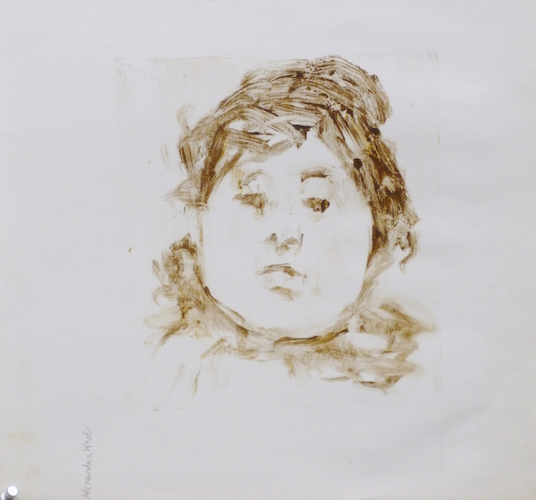
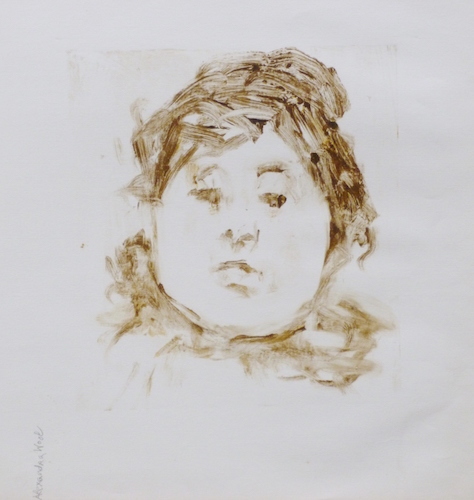
added cropped versions sent by Alexandra

diff --git a/app.js b/app.js
@@ -50,8 +50,8 @@ app.controller('PanelCtrl', function(){
 var categories = [
 	// {category: "paintings", paintings: []},
 	{category: "mixed media", paintings: [
-		{name: "flower and memory", img: "public/Mixed-Media/FLOWER AND MEMORY 15x20in.jpg", size: "20x15in"},
-		{name: "generative green", img: "public/Mixed-Media/Generative_Green_on_panel_15x16in.jpg", size: "20x15in"},
+		{name: "flower and memory", img: "public/Flowers/05 Flower and Memory   mixed media on panel   20x15in.jpeg", size: "20x15in"},
+		{name: "generative green", img: "public/Flowers/06 Generative Green (20'' x 15'', mixed media on panel - 2011) - Copy - Copy (2).jpg", info: "", size: "20x15in"},
 		{name: "light after rain", img: "public/Mixed-Media/light after rain  mixed media  panel  36x30in.jpg", size: "48x36in"}, // size corrected by Alexandra
 		{name: "postcard from lucca", img: "public/Mixed-Media/012Postcard from Lucca  mixed media  24x32in.JPG", size: "32x24in"},
 		{name: "red flowers in a somewhat grey vase", img: "public/Mixed-Media/red flowers in a somewhat grey vase              mixed media  panel  9.5x16.5.JPG", size: "9.5x16.5in"},
@@ -98,14 +98,14 @@ var categories = [
 		{name: "leisure time graces", img: "public/Monotype/05  leisure time graces oil monotype on rice  paper 19x24in.JPG", info: "oil on rice paper", size: "19x24in"},
 		{name: "almost dressed", img: "public/Monotype/06 almost dressed    monotype   5x9.25in.JPG", info: "", size: "5x9.25in"},
 		{name: "mika", img: "public/Monotype/07 mika   monotype   7.5x7in.jpg", info: "", size: "7.5x7in"},
-		{name: "post- shower", img: "public/Monotype/z01 post- shower   monotype  6.5x10in.JPG", info: "", size: "6.5x10in"},
+		{name: "post- shower", img: "public/Monotype/08  post- shower   monotype  6.5x10in.JPG", info: "", size: "6.5x10in"},
 		{name: "after the bath", img: "public/Monotype/09 after the bath   monotype    5.5x7in.JPG", info: "", size: "5.5x7in"},
 		{name: "woman dressing", img: "public/Monotype/z02woman dressing   monotype    8.75x6in.JPG", info: "", size: "8.75x6in"},
 		{name: "young woman thinking, back view", img: "public/Monotype/young woman thinking, back view.jpg", info: "", size: "14.5x13in"},
 		// {name: "young woman, considering", img: "public/Monotype/011 young woman, considering  monotype  14.5x13in.jpg", info: "", size: "14.5x13in"},
 		{name: "lovely lady, back 3", img: "public/Monotype/012  lovely lady back 3  monotype  14.5x19in.JPG", info: "", size: "14.5x19in"},
 		{name: "lovely lady, back 2", img: "public/Monotype/z04 lovely lady back2  monotype 14.5x19in.JPG", info: "", size: "14.5x19in"},
-		{name: "lovely lady, her back 1", img: "public/Monotype/014 lovely lady her back 1 monotype 14.75x19.JPG", info: "", size: "14.75x19"},
+		{name: "lovely lady, her back 1", img: "public/Monotype/z040  lovely lady her back 1 monotype 14.75x19.JPG", info: "", size: "14.75x19"},
 		{name: "flowery field view of small hill and phone poles, pawling", img: "public/Monotype/015 flowery field view of small hill and phone poles, Pawling    monotype   5.25x5.25in.JPG", info: "", size: "5.25x5.25in"},
 		{name: "fair day landscape", img: "public/Monotype/016 fair day landscape   monotype   10.25x4.75in.JPG", info: "", size: "10.25x4.75in"},
 		{name: "landscape west", img: "public/Monotype/017 landscape west   monotype 10x9in.JPG", info: "", size: "10x9in"},
@@ -233,15 +233,15 @@ var categories = [
 		{name: "anemones", img: "public/Flowers/ANEMONES 44x44in.JPG", size: "44x44in"},
 		{name: "anemones in a teapot", img: "public/Flowers/anemones in a teapot  18x36in.jpg", size: "18x36in"},
 		{name: "corsage", img: "public/Flowers/corsage   36x27.5in.JPG", size: "36x27.5in"},
-		{name: "daffodils 1", img: "public/Flowers/daffodils 1    8x10in.JPG", size: "10x8in"},
-		{name: "daffodils 4", img: "public/Flowers/daffodils 2   8x10in.JPG", size: "10x8in"},
+		{name: "daffodils 1", img: "public/Flowers/01Daffodils 1.JPG", size: "10x8in"},
+		{name: "daffodils 4", img: "public/Flowers/02Daffodils 2.JPG", size: "10x8in"},
 		// {name: "daffodils 3", img: "public/Flowers/daffodils 3    8x10in.JPG", size: "8x10in"},
 		// {name: "daffodils and vase", img: "public/Flowers/Daffodils and Vase   chalk pencil paint  9x12in.JPG", size: "9x12in"},
 		{name: "first blooming geraniums", img: "public/Flowers/first blooming geraniums   48x24in.jpg", size: "48x24in"},
 		{name: "florentine geraniums", img: "public/Flowers/florentine geraniums 48x24in.jpg", size: "48x24in"},
-		{name: "flower and memory", img: "public/Flowers/flower_and_memory_mixed_media_panel_20x15in.jpg", size: "20x15in"},
+		{name: "flower and memory", img: "public/Flowers/05 Flower and Memory   mixed media on panel   20x15in.jpeg", size: "20x15in"},
 		{name: "flowers, blue, pink, and violet", img: "public/Flowers/flowers,blue,pink, and violet   12x9in.JPG", size: "12x9in"},
-		{name: "generative green", img: "public/Mixed-Media/Generative_Green_on_panel_15x16in.jpg", info: "", size: "20x15in"},
+		{name: "generative green", img: "public/Flowers/06 Generative Green (20'' x 15'', mixed media on panel - 2011) - Copy - Copy (2).jpg", info: "", size: "20x15in"},
 		{name: "geranium", img: "public/Flowers/geranium  48x24in.JPG", size: "48x24in"},
 		{name: "geranium in dutchess county morning light", img: "public/Flowers/geranium in dutchesss county morning light  48x24in.jpg", size: "48x24in"},
 		{name: "geranium in moonlight, as a philosopher friend addressed it", img: "public/Flowers/geranium in moonlight,as a philosopher friend addressed it   panel   12x12in.jpg", size: "16x16in"},
@@ -252,24 +252,24 @@ var categories = [
 		{name: "hydrangea fresco", img: "public/Flowers/hydrangea fresco 10x10in.JPG", size: "10x10in"},
 		// {name: "hydrangeas", img: "public/Flowers/hydrangeas 24x12in.JPG", size: "24x12in"}, // duplicate
 		{name: "hydrangeas gathered in a pot", img: "public/Flowers/hydrangeas gathered in a pot  panel  12x8.5in.JPG", size: "12x8.5in"},
-		{name: "hydrangeas in a bowl", img: "public/Flowers/hydrangeas in a bowl 12x24in.JPG", size: "24x12in"},
+		{name: "bunch of hydrangeas", img: "public/Flowers/03BUNCH OF HYDRANGEAS ON GREEN.jpg", size: "24x12in"},
 		{name: "hydrangeas in a tall vase", img: "public/Flowers/hydrangeas in a tall vase     pastel   36x18 in.JPG", size: "36x18in"},
-		{name: "hydrangeas observed", img: "public/Flowers/hydrangeas observed  pastel  canvas  10x10in.JPG", size: "10x10in"},
+		{name: "hydrangeas observed", img: "public/Flowers/010  HYDRAGEAS observed 10x10in.jpg", size: "10x10in"},
 		{name: "hydrangeas on grey", img: "public/Flowers/hydrangeas on grey  23x8in.JPG", size: "23x8in"},
 		{name: "hydrangeas on the terrace", img: "public/Flowers/hydrangeas on the terrace  canvas   18x36in.JPG", size: "18x36in"},
 		// {name: "hydrangeas, elan", img: "public/Flowers/hydrangeas, elan  pastel on  canvas        10x9in.JPG", size: "10x9in"},
-		{name: "lap san", img: "public/Flowers/lap san       10x8in.JPG", size: "10x8in"},
+		{name: "lap san", img: "public/Flowers/07   lap-san - Copy.JPG", size: "10x8in"},
 		{name: "little pot of flowers", img: "public/Flowers/little pot of flowers    panel  8.5x7in.JPG", size: "8.5x7in"},
 		{name: "on first seeing oslo", img: "public/Flowers/on first seeing oslo  panel   20x14.16in.JPG", size: "20x14.16in"},
 		{name: "pink", img: "public/Flowers/pink   pigment on panel   12x8in.JPG", size: "12x8in"},
-		{name: "pink and blue hydrangeas", img: "public/Flowers/PINK AND BLUE HYDRANGEAS    8x10 in.jpg", size: "8x10in"},
+		{name: "pink and blue hydrangeas", img: "public/Flowers/09  pink and blue hydrangeas  10x9in.jpg", size: "8x10in"},
 		{name: "portuguese geraniums", img: "public/Flowers/portuguese geraniums 48x24in.jpg", size: "48x24in"},
 		{name: "postcard from lucca", img: "public/Mixed-Media/012Postcard from Lucca  mixed media  24x32in.JPG", size: "32x24in"}, // this is the livelier one that Alexandra asked to have shown in this slideshow, as a duplicate from another slideshow
 		
 		// {name: "postcard from lucca", img: "public/Flowers/POSTCARD_FROM_LUCCA_24x32in.jpg", size: "24x32in"},
 		// {name: "postcard from lucca", img: "public/Flowers/postcard from lucca  mixed media   panel      32x24in.JPG", size: "32x24in"},
 		{name: "red flowers in a somewhat grey vase", img: "public/Mixed-Media/red flowers in a somewhat grey vase              mixed media  panel  9.5x16.5.JPG", size: "9.5x16.5in"},
-		{name: "red geraniums in terracotta pot", img: "public/Flowers/red geranium in terracotta pot   18 x 22in.JPG", size: "18x22in"},
+		{name: "red geraniums in terracotta pot", img: "public/Flowers/08   Red Geranium in Terracotta Pot.JPG", size: "18x22in"},
 		{name: "red, very red", img: "public/Flowers/red,very red  panel   12x9.5in.jpg", size: "12x9.5in"},
 		{name: "red/blue", img: "public/Flowers/redblue  48x24in.jpg", size: "48x24in"},
 		// {name: "remember", img: "public/Flowers/remember   pastel  on canvas   8x10in.JPG", size: "8x10in"},
@@ -366,6 +366,7 @@ var categories = [
 		 
 	]},
 	{category: "100 people (more or less)", paintings: [
+		{name: "mika", img: "public/People/MIKA  oil on panel   15x15in.jpg", info: "oil on panel", size: "15x15in"},
 		// {name: "book and coffee", img: "public/People/BOOK AND COFFE   triptych  48x48in.JPG", size: "48x48in"},
 		// {name: "hart", img: "public/People/HART   9 x11in.jpg", size: "9x11in"},
 		// {name: "hart in black jacket", img: "public/People/HART IN BLACK JACKET  48x48in.Jpg", size: "48x48in"},
@@ -387,7 +388,7 @@ var categories = [
 		{name: "reader", img: "public/People/Mika Reading 045.JPG", info: "", size: ""},
 		{name: "mika with jumprope", img: "public/People/mika with jumprope   oil on panel  8.75x11.75in.JPG", info: "oil on panel", size: "8.75x11.75in"},
 		{name: "self portrait", img: "public/People/028  Self-portrai   oil.jpg", info: "oil on panel", size: "28x22in"},
-		{name: "sunhat", img: "public/People/sunhat   oil     13x23in.JPG", info: "oil", size: "13x23in"},
+		{name: "sunhat", img: "public/People/060    sunhat   oil     13x23in.JPG", info: "oil", size: "13x23in"},
 		{name: "three graces engaged in leisure time activities", img: "public/People/three graces engaged in leisure time activities  oil on panel   15.50x19in.JPG", info: "oil on panel", size: "15.50x19in"},
 		{name: "tiger tiger", img: "public/People/027  Tiger tiger burning Bright   oil.JPG", info: "oil on panel", size: "7x8.25in"},
 		{name: "young woman in a black knit cap", img: "public/People/YOUNG WOMAN IN A BLACK KNIT CAP.jpg", info: "", size: ""},

diff --git a/index.html b/index.html
@@ -131,31 +131,31 @@
 							<li class="list-group-item col-xs-6">Lewis Strauss</li>
 							<li class="list-group-item col-xs-6">Robert Gross Ltd.</li>
 							<li class="list-group-item col-xs-6">Dr. U.J. Salmon</li>
-							<li class="list-group-item col-xs-6">Frank & Nancy Stevenson</li>
-							<li class="list-group-item col-xs-6">Arthur & Jan Sudler</li>
-							<li class="list-group-item col-xs-6">Leo & Vita Trachtenberg, </li>
+							<li class="list-group-item col-xs-6">Frank and Nancy Stevenson</li>
+							<li class="list-group-item col-xs-6">Arthur and Jan Sudler</li>
+							<li class="list-group-item col-xs-6">Leo and Vita Trachtenberg, </li>
 							<li class="list-group-item col-xs-6">Guy and Jeannine Gallo</li>
 							<li class="list-group-item col-xs-6">Harvest Films</li>
 							<li class="list-group-item col-xs-6">Ann McDonald,Esq.</li>
 							<li class="list-group-item col-xs-6">Ruth Carpenter</li>
-							<li class="list-group-item col-xs-6">Nathan & Vera Shapiro</li>
-							<li class="list-group-item col-xs-6">J.B. & Mary Babcock</li>
-							<li class="list-group-item col-xs-6">Drs. Seth & Andrea Abramson</li>
+							<li class="list-group-item col-xs-6">Nathan and Vera Shapiro</li>
+							<li class="list-group-item col-xs-6">J.B. and Mary Babcock</li>
+							<li class="list-group-item col-xs-6">Drs. Seth and Andrea Abramson</li>
 							<li class="list-group-item col-xs-6">Frank Ventgen</li>
 							<li class="list-group-item col-xs-6">Donald C. Fresne</li>
 							<li class="list-group-item col-xs-6">Ann LaFarge</li>
 							<li class="list-group-item col-xs-6">Carla K. Lott</li>
-							<li class="list-group-item col-xs-6">James & Lee Cornell</li>
-							<li class="list-group-item col-xs-6">Lawrence & Jan Wechsler</li>
+							<li class="list-group-item col-xs-6">James and Lee Cornell</li>
+							<li class="list-group-item col-xs-6">Lawrence and Jan Wechsler</li>
 							<li class="list-group-item col-xs-6">Paul Okolowicz</li>
-							<li class="list-group-item col-xs-6">Dr. Lewis & Michael Sheiner</li>
+							<li class="list-group-item col-xs-6">Dr. Lewis and Michael Sheiner</li>
 							<li class="list-group-item col-xs-6">Mimi Sheiner</li>
 							<li class="list-group-item col-xs-6">Naomi Sheiner,Esq.</li>
-							<li class="list-group-item col-xs-6">Robert & Annie Snyder</li>
+							<li class="list-group-item col-xs-6">Robert and Annie Snyder</li>
 							<li class="list-group-item col-xs-6">Dorothy Rosenhaus</li>
 							<li class="list-group-item col-xs-6">Bruce Rosen</li>
 							<li class="list-group-item col-xs-6">Robert Hallock</li>
-							<li class="list-group-item col-xs-6">David & Rachel Straus</li>
+							<li class="list-group-item col-xs-6">David and Rachel Straus</li>
 							<li class="list-group-item col-xs-6">Robert Halmi</li>
 							<li class="list-group-item col-xs-6">Gary Beller</li>
 							<li class="list-group-item col-xs-6">Dr. Philip Lee</li>
@@ -166,11 +166,14 @@
 							<li class="list-group-item col-xs-6">Alan and Nancy Rudolph</li>
 							<li class="list-group-item col-xs-6">Louise Boutin</li>
 							<li class="list-group-item col-xs-6">Lucian K. Wernick</li>
-							<li class="list-group-item col-xs-6">Drs. Jerome & Georgine Kavka</li>
-							<li class="list-group-item col-xs-6">Dr. Abby& Myra Franklin</li>
+							<li class="list-group-item col-xs-6">Drs. Jerome and Georgine Kavka</li>
+							<li class="list-group-item col-xs-6">Dr. Abby and Myra Franklin</li>
 							<li class="list-group-item col-xs-6">Dr. Cynthia Grey</li>
 							<li class="list-group-item col-xs-6">Tuck LaFavers</li>
 							<li class="list-group-item col-xs-6">Anna Malek</li>
+							<li class="list-group-item col-xs-6">Amy Pommier</li>
+							<li class="list-group-item col-xs-6">Carol Nelson</li>
+							<li class="list-group-item col-xs-6">Mirja Lavanne</li>
 						</ul>
 					</div>
 					<div ng-show="panel.tab === 17" class="slideshow-panel">
